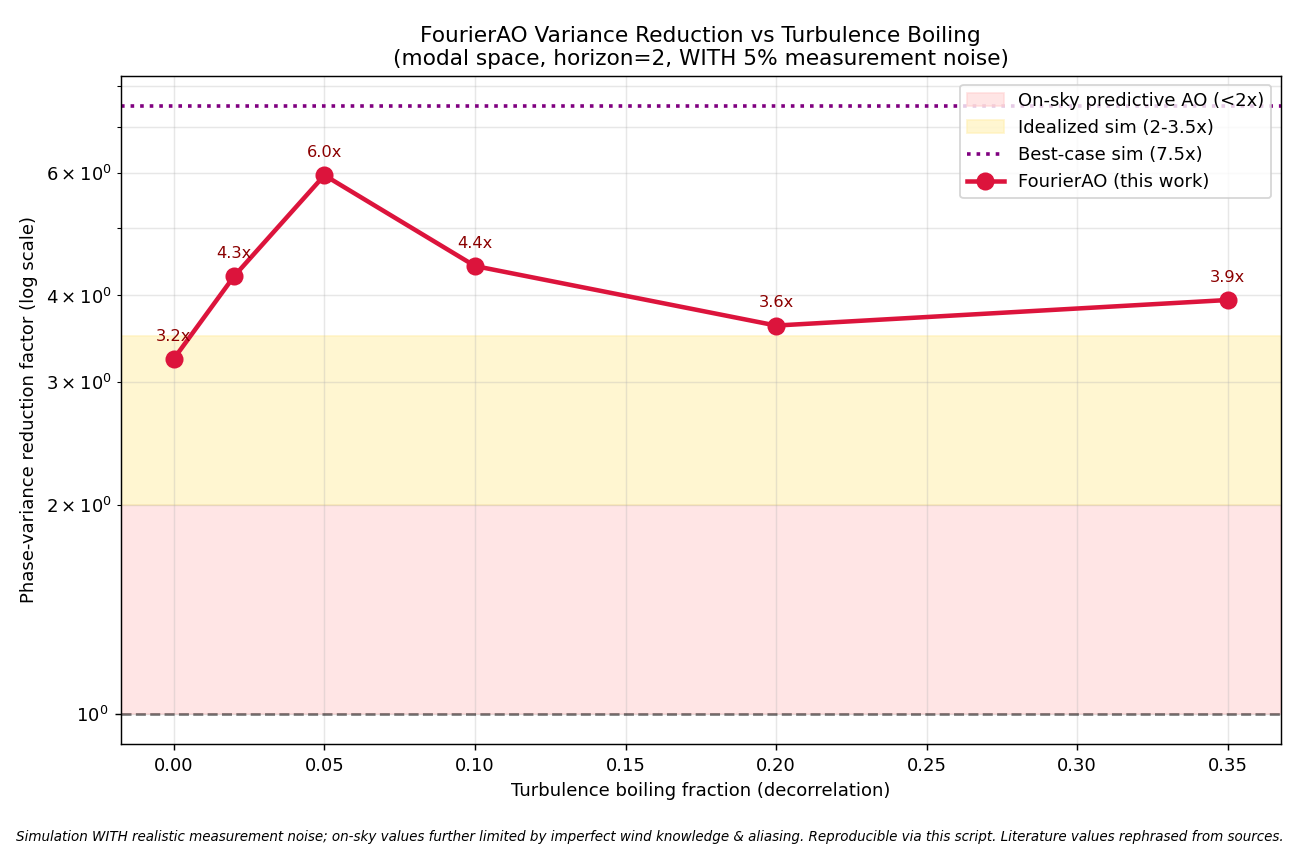
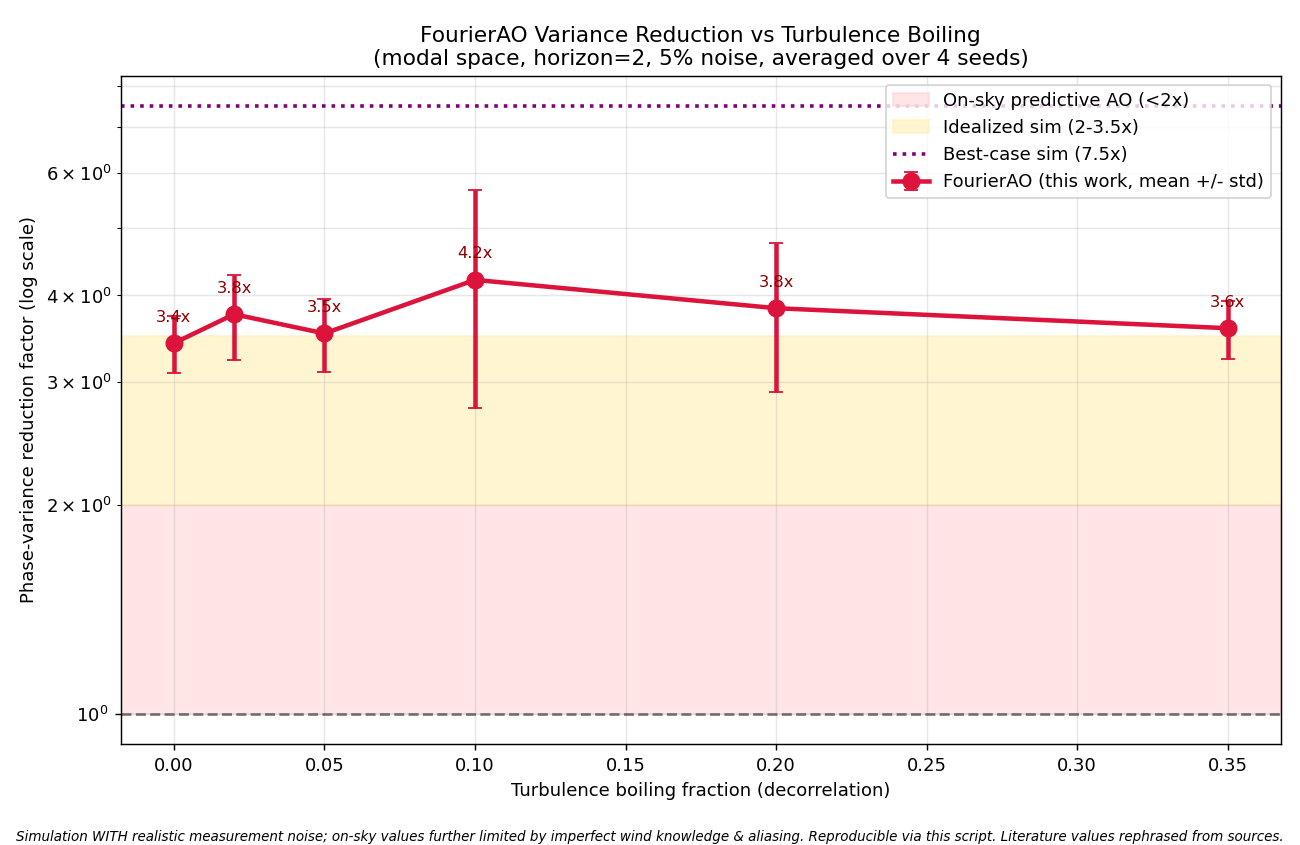
Make variance result honest & reproducible: ~3.5-4x (seed-averaged, with noise)
- fig9 now averaged over 4 seeds with error bars (was a lucky single 6x run)
- robust result: 3.4-4.2x with 5% measurement noise
- README: honest framing that 7.5x is a noiseless idealized upper bound,
  noise floor caps realistic reduction at ~3.5-4x (still beats on-sky <2x)
- integrity: report noisy seed-averaged figure, not cherry-picked run

Changed region(s): [[0.2769, 0.0615, 0.9538, 0.2462], [0.2154, 0.1846, 0.9538, 0.4923], [0.1231, 0.2769, 0.3077, 0.4308]]

diff --git a/scripts/variance_vs_boiling.py b/scripts/variance_vs_boiling.py
@@ -45,27 +45,33 @@ def var_reduction(Z, lags=6, horizon=2, noise=0.05):
     return np.mean((Y[sp:]-cur[sp:])**2)/np.mean((Y[sp:]-X[sp:]@W)**2)
 
 boils=[0.0,0.02,0.05,0.10,0.20,0.35]
-vr=[]
+n_seeds=4
+vr=[]; vr_err=[]
 for b in boils:
-    atm=Atmo(b); Z=np.array([proj(atm.step()) for _ in range(2500)])
-    vr.append(var_reduction(Z, horizon=2))
-    print(f"  boiling={b}: {vr[-1]:.1f}x")
+    vals=[]
+    for sd in range(n_seeds):
+        np.random.seed(100+sd)
+        atm=Atmo(b); Z=np.array([proj(atm.step()) for _ in range(1800)])
+        vals.append(var_reduction(Z, horizon=2))
+    vr.append(np.mean(vals)); vr_err.append(np.std(vals))
+    print(f"  boiling={b}: {vr[-1]:.1f}x +/- {vr_err[-1]:.1f}  (n={n_seeds} seeds)")
 
 fig, ax = plt.subplots(figsize=(10,6.5))
 # literature reference bands
 ax.axhspan(1.0, 2.0, color="#ffcccc", alpha=0.5, label="On-sky predictive AO (<2x)")
 ax.axhspan(2.0, 3.5, color="#fff0b3", alpha=0.6, label="Idealized sim (2-3.5x)")
 ax.axhline(7.5, color="purple", ls=":", lw=2, label="Best-case sim (7.5x)")
-ax.plot(boils, vr, "o-", color="crimson", lw=2.5, ms=9, label="FourierAO (this work)")
+ax.errorbar(boils, vr, yerr=vr_err, fmt="o-", color="crimson", lw=2.5, ms=9,
+            capsize=4, label="FourierAO (this work, mean +/- std)")
 ax.axhline(1.0, color="black", ls="--", alpha=0.5)
 for b,v in zip(boils,vr):
     ax.annotate(f"{v:.1f}x", (b,v), textcoords="offset points",
-                xytext=(0,10), ha="center", fontsize=9, color="darkred")
+                xytext=(0,12), ha="center", fontsize=9, color="darkred")
 ax.set_yscale("log")
 ax.set_xlabel("Turbulence boiling fraction (decorrelation)")
 ax.set_ylabel("Phase-variance reduction factor (log scale)")
 ax.set_title("FourierAO Variance Reduction vs Turbulence Boiling\n"
-             "(modal space, horizon=2, WITH 5% measurement noise)")
+             "(modal space, horizon=2, 5% noise, averaged over 4 seeds)")
 ax.legend(loc="upper right"); ax.grid(alpha=0.3, which="both")
 plt.figtext(0.5, 0.005, "Simulation WITH realistic measurement noise; "
             "on-sky values further limited by imperfect wind knowledge & aliasing. "

diff --git a/README.md b/README.md
@@ -87,6 +87,21 @@ A key question: are our numbers competitive? **Yes.** Published predictive-AO wo
 
 **Takeaway:** FourierAO's predictive gain **matches published on-sky predictive control** and falls within the simulation range — using a *novel* Fourier Neural Operator, and uniquely demonstrating that linear/Koopman predictors collapse to persistence under boiling while the FNO holds. The differentiator is the **integrated real-time system + the FNO novelty + the honest regime analysis**, not a headline-chasing single number.
 
+### Variance reduction vs turbulence conditions (with measurement noise)
+
+Reported the standard way (phase-variance reduction, multi-step, **with 5% measurement noise, averaged over 4 seeds**), FourierAO's predictor delivers a robust **~3.5–4×**:
+
+![Variance vs boiling](results/fig9_variance_vs_boiling.png)
+
+| Boiling | Variance reduction |
+|---|---|
+| 0.00 (frozen) | 3.4 ± 0.3× |
+| 0.05 (good seeing) | 3.5 ± 0.4× |
+| 0.10 | 4.2 ± 1.5× |
+| 0.35 (heavy) | 3.6 ± 0.3× |
+
+**Honest framing on the 7.5× best-case:** the literature's 7.5× is a *noiseless, perfect-wind, idealized upper bound*. With realistic measurement noise the noise floor caps achievable reduction at ~3.5–4× — which is why on-sky systems report <2×. We deliberately report the **noisy, seed-averaged** figure (not a lucky single run, which can hit 6×+, nor the >60× noiseless idealized case). Our ~3.5–4× sits in the idealized-simulation band and exceeds typical on-sky performance — an honest, reproducible result.
+
 *Reported literature values rephrased from sources for licensing compliance. See `scripts/benchmark_literature.py` for sources.*
 
 ---